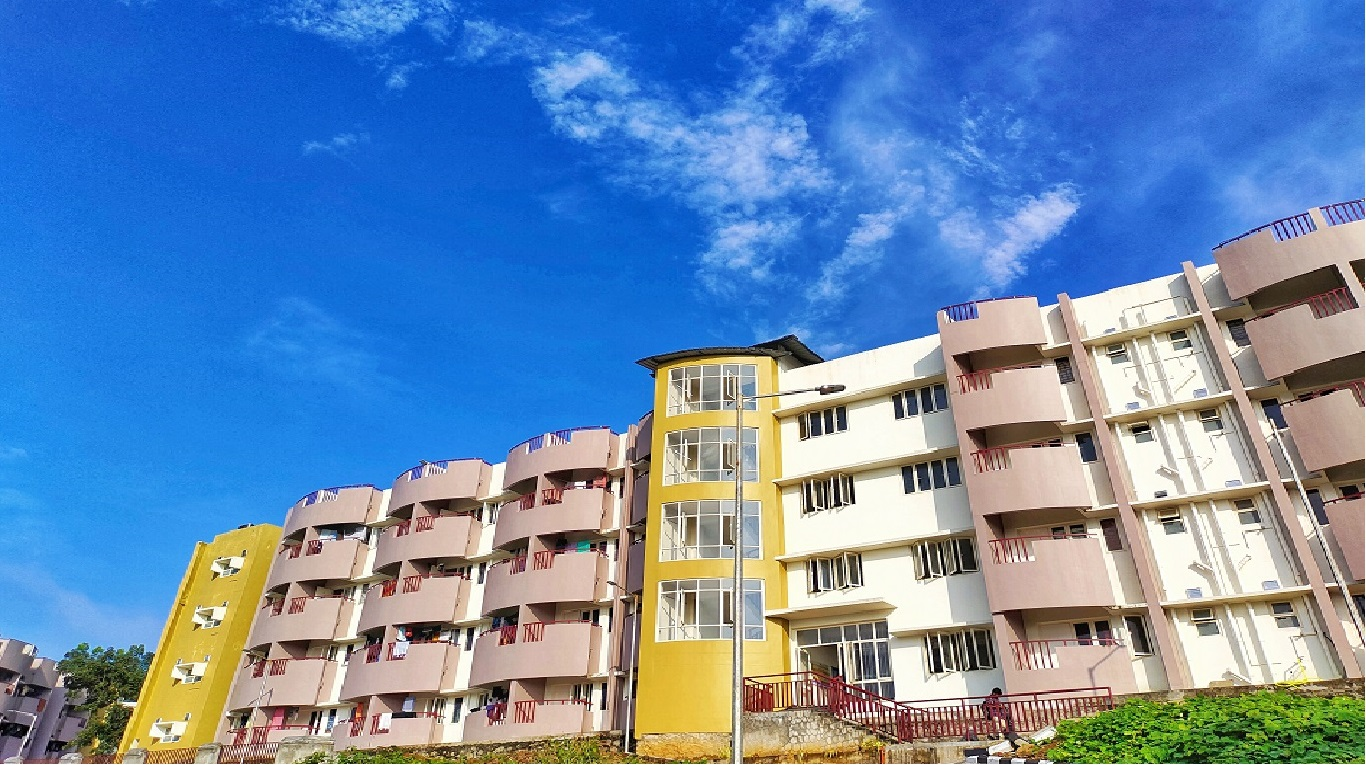
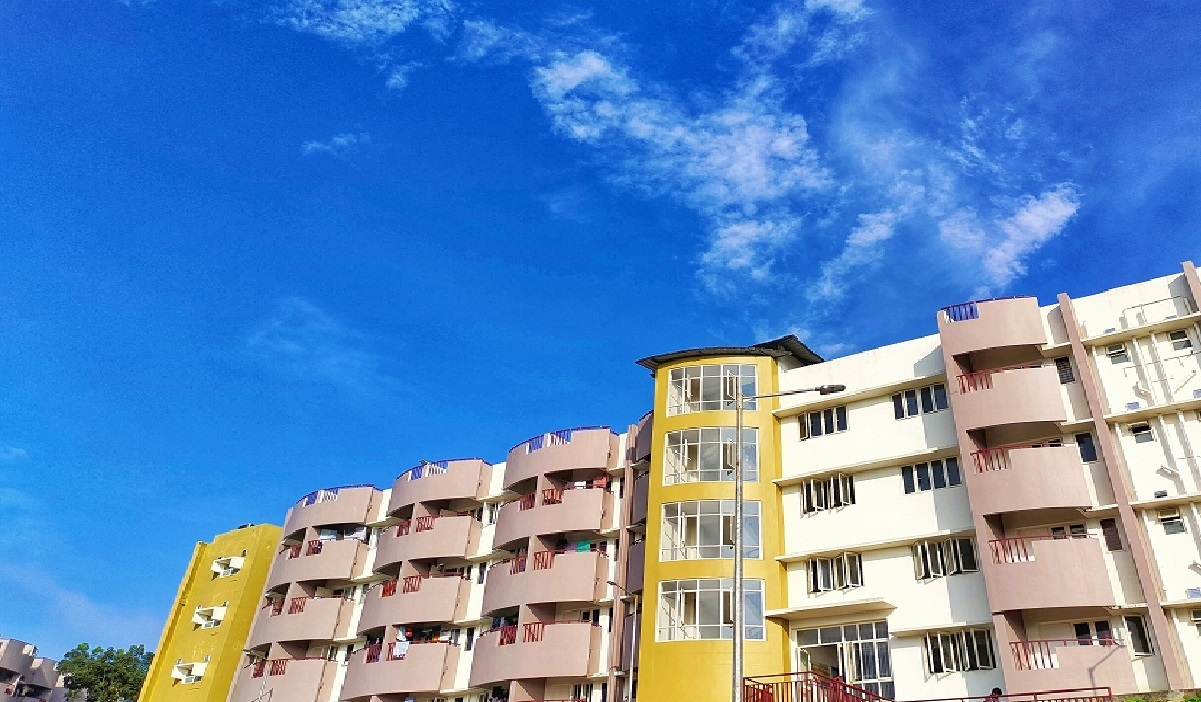
color changes and images

diff --git a/index.html b/index.html
@@ -76,7 +76,7 @@
     <div class="container-fluid p-0">
         <div class="owl-carousel header-carousel position-relative">
             <div class="owl-carousel-item position-relative">
-                <img class="img-fluid" src="img/img-1.jpeg" alt="">
+                <img class="img-fluid" src="img/college.jpg" alt="">
                 <div class="position-absolute top-0 start-0 w-100 h-100 d-flex align-items-center"
                     style="background: rgba(24, 29, 56, .7);">
                     <div class="container">
@@ -100,7 +100,7 @@
                 </div>
             </div>
             <div class="owl-carousel-item position-relative">
-                <img class="img-fluid" src="img/img-1.jpeg" alt="">
+                <img class="img-fluid" src="img/clg-1.jpeg">
                 <div class="position-absolute top-0 start-0 w-100 h-100 d-flex align-items-center"
                     style="background: rgba(24, 29, 56, .7);">
                     <div class="container">
@@ -179,17 +179,28 @@
             <div class="row g-5">
                 <div class="col-lg-6 wow fadeInUp" data-wow-delay="0.1s" style="min-height: 400px;">
                     <div class="position-relative h-100">
-                        <img class="img-fluid position-absolute w-100 h-100" src="img/about.jpg" alt=""
+                        <img class="img-fluid position-absolute w-100 h-100" src="img/clg-1.jpeg" alt=""
                             style="object-fit: cover;">
                     </div>
                 </div>
                 <div class="col-lg-6 wow fadeInUp" data-wow-delay="0.3s">
                     <h1 class="mb-4">About Us</h1>
-                    <p class="mb-4">Tempor erat elitr rebum at clita. Diam dolor diam ipsum sit. Aliqu diam amet diam et
-                        eos. Clita erat ipsum et lorem et sit.</p>
-                    <p class="mb-4">Tempor erat elitr rebum at clita. Diam dolor diam ipsum sit. Aliqu diam amet diam et
-                        eos. Clita erat ipsum et lorem et sit, sed stet lorem sit clita duo justo magna dolore erat amet
-                    </p>
+                    <p class="mb-4">Indian Institute of Information Technology, Kottayam, situated in Valavoor, Pala,
+                        Kerala, is a distinguished institution
+                        designated as "An Institute of National Importance" by the Ministry of Education, Government of
+                        India, under the IIIT
+                        (PPP) Act of 2017. Nestled in the culturally rich district of Kerala, renowned for its vibrant
+                        educational ambiance,
+                        IIIT Kottayam thrives in a distinctive environment that nurtures a comprehensive learning
+                        journey. The campus, sprawling
+                        across 53 acres, offers an environment of tranquility and beauty, providing an ideal backdrop
+                        for scholarly pursuits and
+                        research endeavors. IIIT Kottayam is deeply committed to providing a diverse range of programs,
+                        including the renowned
+                        4-year B.Tech and B.Tech (Hons) programs in Computer Science and Engineering, Electronics and
+                        Communication Engineering,
+                        as well as specialized tracks in Cyber Security and AI and Data Science.</p>
+
                     <div class="row gy-2 gx-4 mb-4">
                         <div class="col-sm-6">
                             <p class="mb-0"><i class="fa fa-arrow-right text-primary me-2"></i>Skilled Instructors</p>
@@ -212,7 +223,8 @@
                             </p>
                         </div>
                     </div>
-                    <a class="btn py-3 px-5 mt-2" style="background-color: #192655; color: white;" href="">Read More</a>
+                    <a class="btn py-3 px-5 mt-2" style="background-color: #192655; color: white;"
+                        href="https://iiitkottayam.ac.in">Read More</a>
                 </div>
             </div>
         </div>
@@ -229,33 +241,43 @@
             <div class="row g-3">
                 <div class="col-lg-7 col-md-6">
                     <div class="row g-3">
-                        <div class="col-lg-12 col-md-12 wow zoomIn" data-wow-delay="0.1s">
-                            <a class="position-relative d-block overflow-hidden" href="">
-                                <img class="img-fluid" src="img/cat-1.jpg" alt="">
-                                <div class="bg-white text-center position-absolute bottom-0 end-0 py-2 px-3"
-                                    style="margin: 1px;">
-                                    <h5 class="m-0">Web Design</h5>
-                                    <small class="text-primary">49 Courses</small>
-                                </div>
-                            </a>
-                        </div>
                         <div class="col-lg-6 col-md-12 wow zoomIn" data-wow-delay="0.3s">
                             <a class="position-relative d-block overflow-hidden" href="">
-                                <img class="img-fluid" src="img/cat-2.jpg" alt="">
+                                <img class="img-fluid" src="img/courses-2.jpeg" alt="">
                                 <div class="bg-white text-center position-absolute bottom-0 end-0 py-2 px-3"
                                     style="margin: 1px;">
-                                    <h5 class="m-0">Graphic Design</h5>
-                                    <small class="text-primary">49 Courses</small>
+                                    <h5 class="m-0"></h5>
+                                    <small class="text-primary"></small>
                                 </div>
                             </a>
                         </div>
                         <div class="col-lg-6 col-md-12 wow zoomIn" data-wow-delay="0.5s">
                             <a class="position-relative d-block overflow-hidden" href="">
-                                <img class="img-fluid" src="img/cat-3.jpg" alt="">
+                                <img class="img-fluid" src="img/courses-3.jpeg" alt="">
                                 <div class="bg-white text-center position-absolute bottom-0 end-0 py-2 px-3"
                                     style="margin: 1px;">
-                                    <h5 class="m-0">Video Editing</h5>
-                                    <small class="text-primary">49 Courses</small>
+                                    <h5 class="m-0"></h5>
+                                    <small class="text-primary"></small>
+                                </div>
+                            </a>
+                        </div>
+                        <div class="col-lg-6 col-md-12 wow zoomIn" data-wow-delay="0.3s">
+                            <a class="position-relative d-block overflow-hidden" href="">
+                                <img class="img-fluid" src="img/courses-2.jpeg" alt="">
+                                <div class="bg-white text-center position-absolute bottom-0 end-0 py-2 px-3"
+                                    style="margin: 1px;">
+                                    <h5 class="m-0"></h5>
+                                    <small class="text-primary"></small>
+                                </div>
+                            </a>
+                        </div>
+                        <div class="col-lg-6 col-md-12 wow zoomIn" data-wow-delay="0.5s">
+                            <a class="position-relative d-block overflow-hidden" href="">
+                                <img class="img-fluid" src="img/courses-3.jpeg" alt="">
+                                <div class="bg-white text-center position-absolute bottom-0 end-0 py-2 px-3"
+                                    style="margin: 1px;">
+                                    <h5 class="m-0"></h5>
+                                    <small class="text-primary"></small>
                                 </div>
                             </a>
                         </div>
@@ -263,12 +285,12 @@
                 </div>
                 <div class="col-lg-5 col-md-6 wow zoomIn" data-wow-delay="0.7s" style="min-height: 350px;">
                     <a class="position-relative d-block h-100 overflow-hidden" href="">
-                        <img class="img-fluid position-absolute w-100 h-100" src="img/cat-4.jpg" alt=""
+                        <img class="img-fluid position-absolute w-100 h-100" src="img/courses-3.png" alt=""
                             style="object-fit: cover;">
                         <div class="bg-white text-center position-absolute bottom-0 end-0 py-2 px-3"
                             style="margin:  1px;">
-                            <h5 class="m-0">Online Marketing</h5>
-                            <small class="text-primary">49 Courses</small>
+                            <h5 class="m-0"></h5>
+                            <small class="text-primary"></small>
                         </div>
                     </a>
                 </div>
@@ -292,11 +314,12 @@
                         </div>
                         <div class="position-relative d-flex justify-content-center" style="margin-top: -23px;">
                             <div class="bg-light d-flex justify-content-center pt-2 px-1">
-                                <a class="btn btn-sm-square btn-primary mx-1" href=""><i
-                                        class="fab fa-facebook-f"></i></a>
-                                <a class="btn btn-sm-square btn-primary mx-1" href=""><i class="fab fa-twitter"></i></a>
-                                <a class="btn btn-sm-square btn-primary mx-1" href=""><i
-                                        class="fab fa-instagram"></i></a>
+                                <a class="btn btn-sm-square mx-1" href="" style="background-color: #192655;"><i
+                                        class="fab fa-facebook-f text-white"></i></a>
+                                <a class="btn btn-sm-square btn-primary mx-1" style="background-color: #192655;"
+                                    href=""><i class="fab fa-twitter text-white"></i></a>
+                                <a class="btn btn-sm-square btn-primary mx-1" style="background-color: #192655;"
+                                    href=""><i class="fab fa-instagram text-white"></i></a>
                             </div>
                         </div>
                         <div class="text-center p-4">
@@ -312,11 +335,12 @@
                         </div>
                         <div class="position-relative d-flex justify-content-center" style="margin-top: -23px;">
                             <div class="bg-light d-flex justify-content-center pt-2 px-1">
-                                <a class="btn btn-sm-square btn-primary mx-1" href=""><i
-                                        class="fab fa-facebook-f"></i></a>
-                                <a class="btn btn-sm-square btn-primary mx-1" href=""><i class="fab fa-twitter"></i></a>
-                                <a class="btn btn-sm-square btn-primary mx-1" href=""><i
-                                        class="fab fa-instagram"></i></a>
+                                <a class="btn btn-sm-square mx-1" href="" style="background-color: #192655;"><i
+                                        class="fab fa-facebook-f text-white"></i></a>
+                                <a class="btn btn-sm-square mx-1" href="" style="background-color: #192655;"><i
+                                        class="fab fa-twitter text-white"></i></a>
+                                <a class="btn btn-sm-square mx-1" href="" style="background-color: #192655;"><i
+                                        class="fab fa-instagram text-white"></i></a>
                             </div>
                         </div>
                         <div class="text-center p-4">
@@ -332,11 +356,12 @@
                         </div>
                         <div class="position-relative d-flex justify-content-center" style="margin-top: -23px;">
                             <div class="bg-light d-flex justify-content-center pt-2 px-1">
-                                <a class="btn btn-sm-square btn-primary mx-1" href=""><i
-                                        class="fab fa-facebook-f"></i></a>
-                                <a class="btn btn-sm-square btn-primary mx-1" href=""><i class="fab fa-twitter"></i></a>
-                                <a class="btn btn-sm-square btn-primary mx-1" href=""><i
-                                        class="fab fa-instagram"></i></a>
+                                <a class="btn btn-sm-square mx-1" href="" style="background-color: #192655;"><i
+                                        class="fab fa-facebook-f text-white"></i></a>
+                                <a class="btn btn-sm-square mx-1" href="" style="background-color: #192655;"><i
+                                        class="fab fa-twitter text-white"></i></a>
+                                <a class="btn btn-sm-square mx-1" href="" style="background-color: #192655;"><i
+                                        class="fab fa-instagram text-white"></i></a>
                             </div>
                         </div>
                         <div class="text-center p-4">
@@ -352,11 +377,12 @@
                         </div>
                         <div class="position-relative d-flex justify-content-center" style="margin-top: -23px;">
                             <div class="bg-light d-flex justify-content-center pt-2 px-1">
-                                <a class="btn btn-sm-square btn-primary mx-1" href=""><i
-                                        class="fab fa-facebook-f"></i></a>
-                                <a class="btn btn-sm-square btn-primary mx-1" href=""><i class="fab fa-twitter"></i></a>
-                                <a class="btn btn-sm-square btn-primary mx-1" href=""><i
-                                        class="fab fa-instagram"></i></a>
+                                <a class="btn btn-sm-square mx-1" href="" style="background-color: #192655;"><i
+                                        class="fab fa-facebook-f text-white"></i></a>
+                                <a class="btn btn-sm-square mx-1" href="" style="background-color: #192655;"><i
+                                        class="fab fa-twitter text-white"></i></a>
+                                <a class="btn btn-sm-square mx-1" href="" style="background-color: #192655;"><i
+                                        class="fab fa-instagram text-white"></i></a>
                             </div>
                         </div>
                         <div class="text-center p-4">
@@ -383,7 +409,7 @@
                         style="width: 80px; height: 80px;">
                     <h5 class="mb-0">Client Name</h5>
                     <p>Profession</p>
-                    <div class="testimonial-text bg-light text-center p-4">
+                    <div class="testimonial-text text-center p-4">
                         <p class="mb-0">Tempor erat elitr rebum at clita. Diam dolor diam ipsum sit diam amet diam et
                             eos. Clita erat ipsum et lorem et sit.</p>
                     </div>
@@ -438,9 +464,11 @@
                 </div>
                 <div class="col-lg-3 col-md-6" id="contact">
                     <h4 class="text-white mb-3">Contact</h4>
-                    <p class="mb-2"><i class="fa fa-map-marker-alt me-3"></i>IIIT Kottayam</p>
-                    <p class="mb-2"><i class="fa fa-phone-alt me-3"></i>Valavoor - Chakkampuzha Road, Pala</p>
-                    <p class="mb-2"><i class="fa fa-envelope me-3"></i>Kerala, India</p>
+                    <p class="mb-2"><i class="fa fa-map-marker-alt me-3"></i>IIIT Kottayam,Valavoor - Chakkampuzha Road,
+                        Pala Kerala, India</p>
+                    <p class="mb-2"><i class="fa fa-phone-alt me-3"></i> 04822 202 100</p>
+                    <p class="mb-2"><i class="fa fa-envelope me-3"></i><a
+                            href="mailto:imtech@iiitkottayam.ac.in">imtech@iiitkottayam.ac.in</a></p>
                     <div class="d-flex pt-2">
                         <a class="btn btn-outline-light btn-social" href=""><i class="fab fa-twitter"></i></a>
                         <a class="btn btn-outline-light btn-social" href=""><i class="fab fa-facebook-f"></i></a>
@@ -455,7 +483,8 @@
 
 
     <!-- Back to Top -->
-    <a href="#" class="btn btn-lg btn-primary btn-lg-square back-to-top"><i class="bi bi-arrow-up"></i></a>
+    <a href="#" class="btn btn-lg btn-lg-square back-to-top" style="background-color: #192655;"><i
+            class="bi bi-arrow-up text-white"></i></a>
 
 
     <!-- JavaScript Libraries -->
